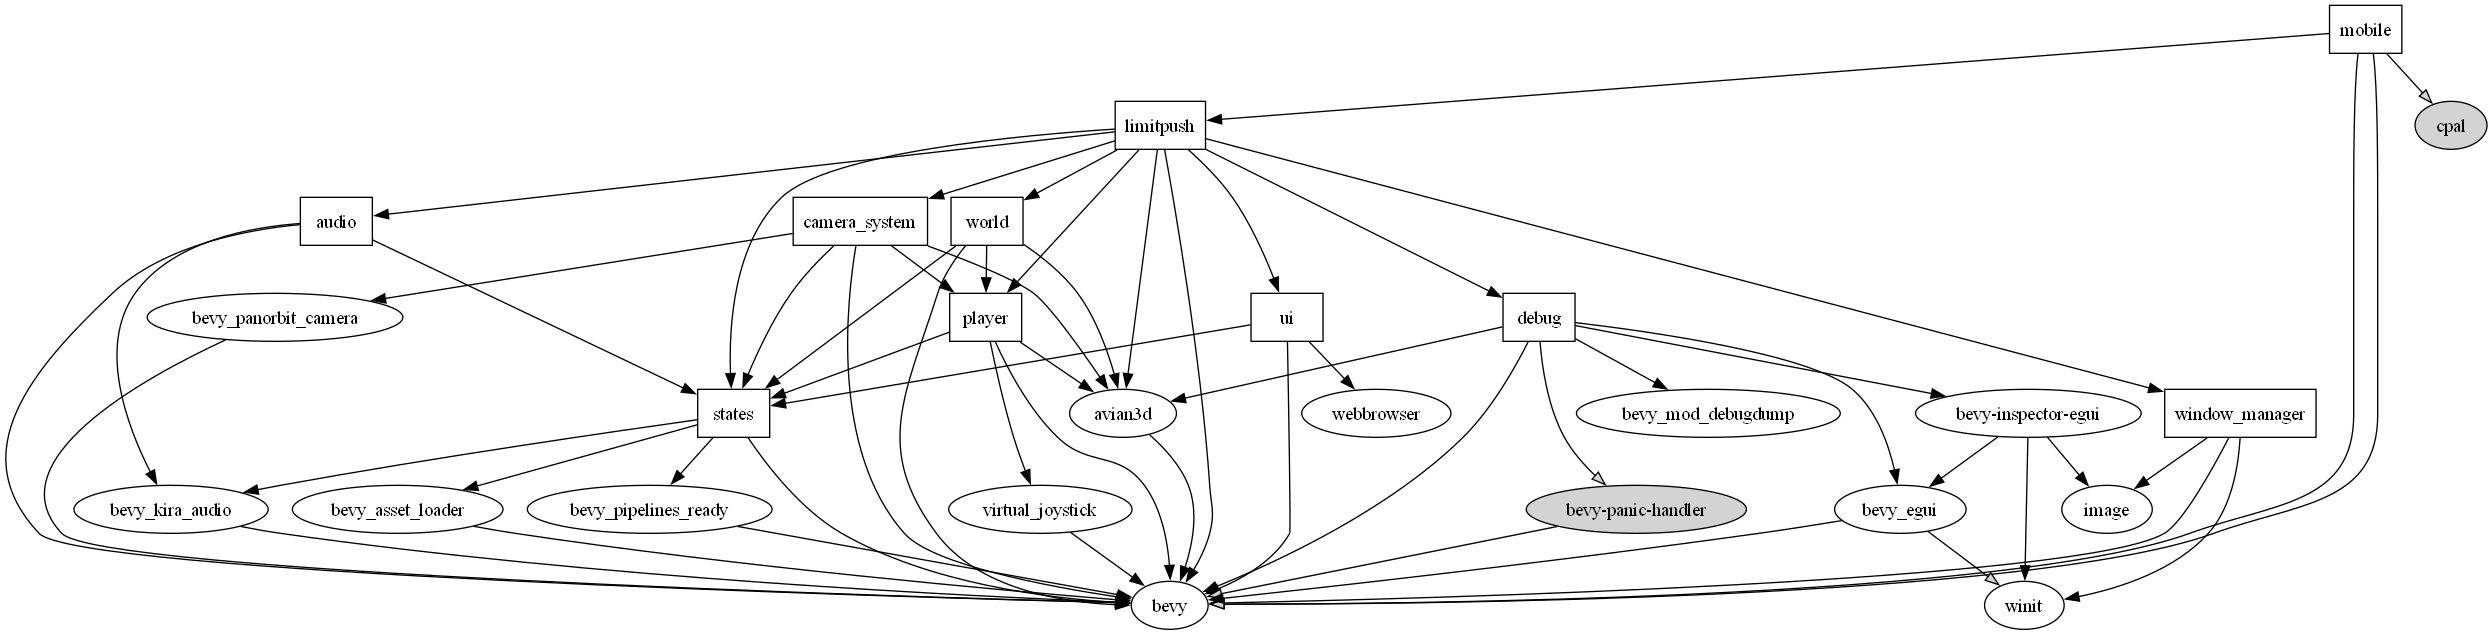
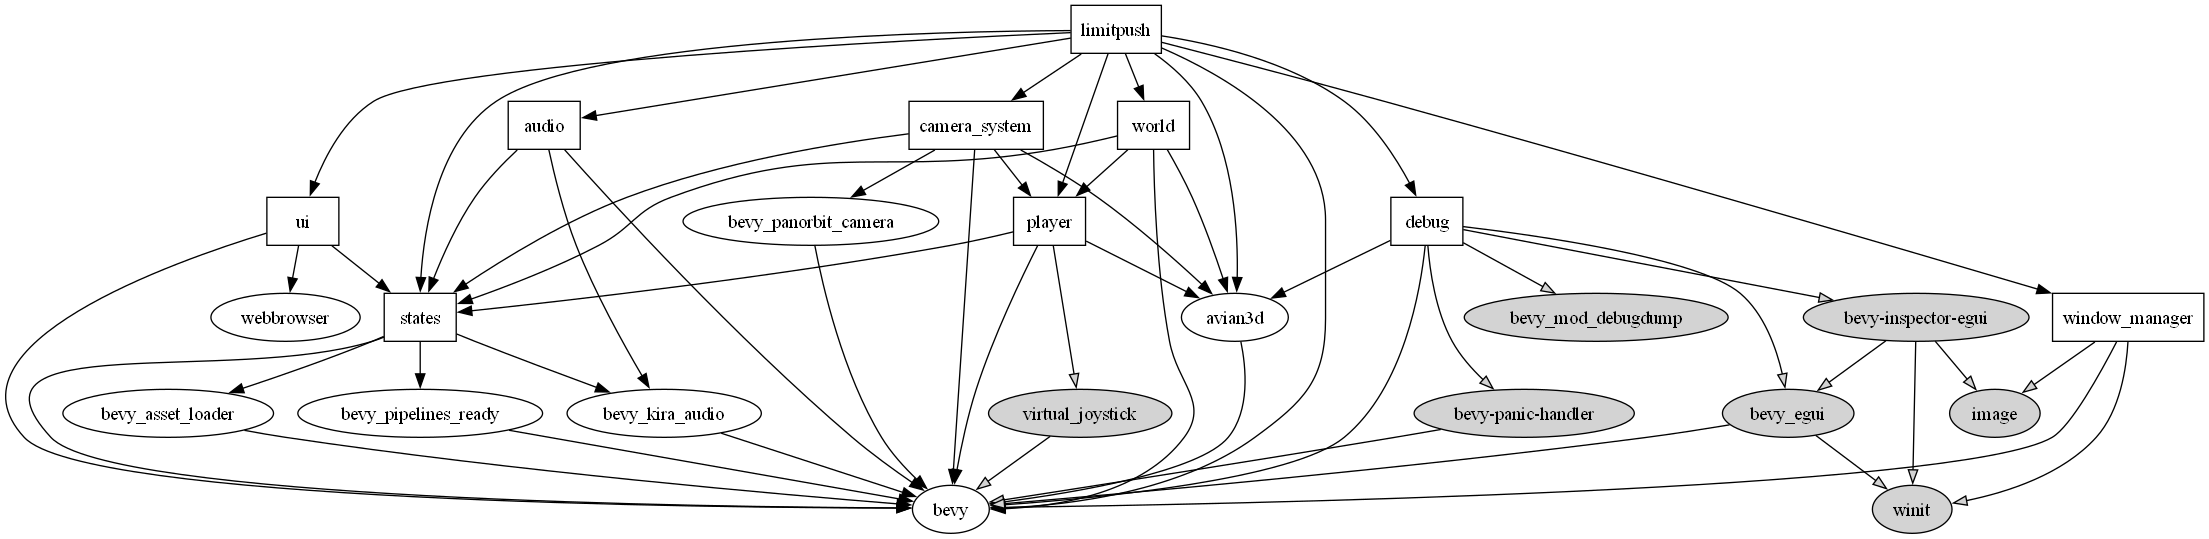
reorganize the code

diff --git a/crates/window_manager/src/lib.rs b/crates/window_manager/src/lib.rs
@@ -1,20 +1,27 @@
 #![allow(clippy::type_complexity)]
 
+#![allow(unused_imports)]
+
 pub mod window;
 
 use bevy::prelude::*;
 use bevy::window::PrimaryWindow; // Importing the PrimaryWindow component for window management.
+#[cfg(not(target_family = "wasm"))]
 use bevy::winit::WinitWindows;
 use std::io::Cursor; // Used to create an in-memory cursor for the image data.
+#[cfg(not(target_family = "wasm"))]
 use winit::window::Icon; // Importing the Icon type for window icon management. // Winit is a window management library that Bevy uses for window handling.
 
 pub fn plugin(app: &mut App) {
+    #[cfg(not(target_family = "wasm"))]
     app.add_plugins(window::plugin);
     // Register the system to set the window icon on startup.
+    #[cfg(not(target_family = "wasm"))]
     app.add_systems(Startup, set_window_icon);
 }
 
 // This function sets the window icon for Windows and X11 (Linux).
+#[cfg(not(target_family = "wasm"))]
 fn set_window_icon(
     windows: NonSend<WinitWindows>, // NonSend allows this resource to be used without sending it between threads.
     primary_window: Query<Entity, With<PrimaryWindow>>, // Query to get the entity representing the primary window.

diff --git a/crates/debug/src/features/mod.rs b/crates/debug/src/features/mod.rs
@@ -4,10 +4,10 @@
 //! we have established conditional compilation to avoid crashes
 //! (and infinite lag in wasm when try to render vertices in Wireframe mode)
 
-// #[cfg(not(target_family = "wasm"))]
+#[cfg(not(target_family = "wasm"))]
 pub mod debug_menu;
 
-// #[cfg(not(target_family = "wasm"))]
+#[cfg(not(target_family = "wasm"))]
 pub mod adapter_debug;
 
 #[cfg(not(any(target_os = "ios", target_os = "android", target_family = "wasm")))]
@@ -27,7 +27,7 @@ use bevy::prelude::*;
 
 pub fn plugin(app: &mut App) {
     app.add_plugins((
-        // #[cfg(not(target_family = "wasm"))]
+        #[cfg(not(target_family = "wasm"))]
         debug_menu::plugin,
         #[cfg(not(any(target_os = "android", target_os = "ios", target_family = "wasm")))]
         wireframe::plugin,
@@ -38,7 +38,7 @@ pub fn plugin(app: &mut App) {
         panic_catcher::plugin,
         #[cfg(feature = "diagnostics-logs")]
         log::plugin,
-        // #[cfg(not(target_family = "wasm"))]
+        #[cfg(not(target_family = "wasm"))]
         adapter_debug::plugin,
     ));
 }

diff --git a/crates/debug/src/features/avian_debug.rs b/crates/debug/src/features/avian_debug.rs
@@ -1,8 +1,8 @@
-use avian3d::debug_render::PhysicsDebugPlugin;
 use avian3d::prelude::*;
 use bevy::prelude::*;
 
 pub fn plugin(app: &mut App) {
     app.add_plugins(PhysicsDebugPlugin::default());
+    #[cfg(not(target_family = "wasm"))]
     bevy_mod_debugdump::print_schedule_graph(app, PhysicsSchedule);
 }
